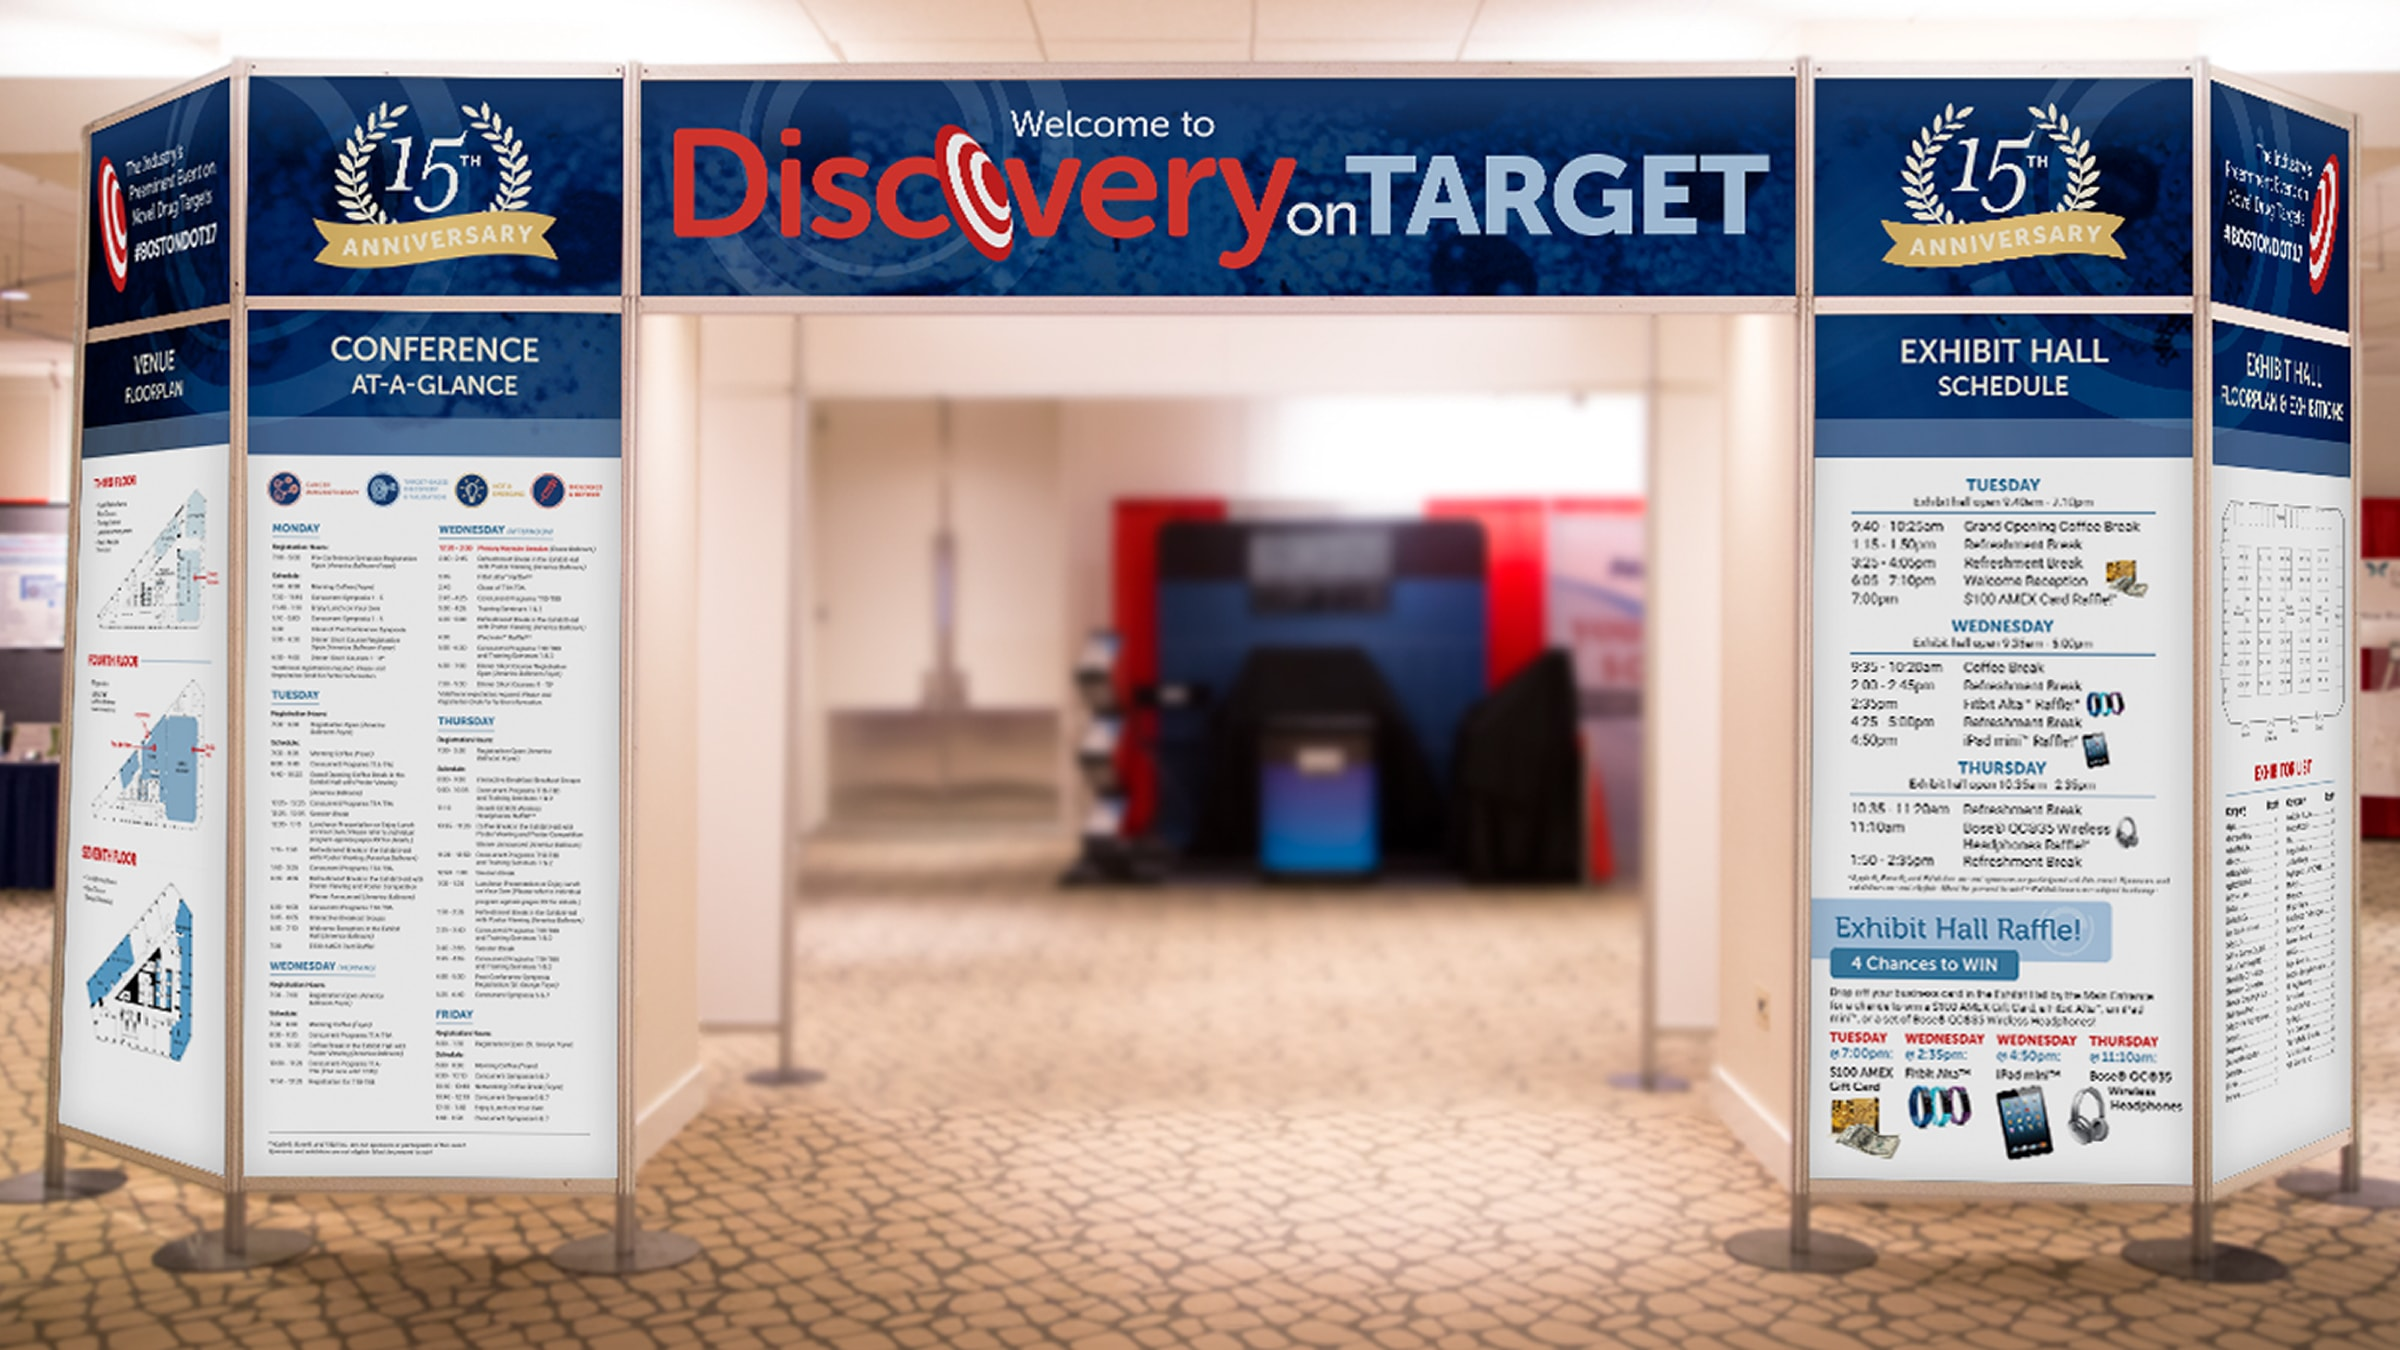
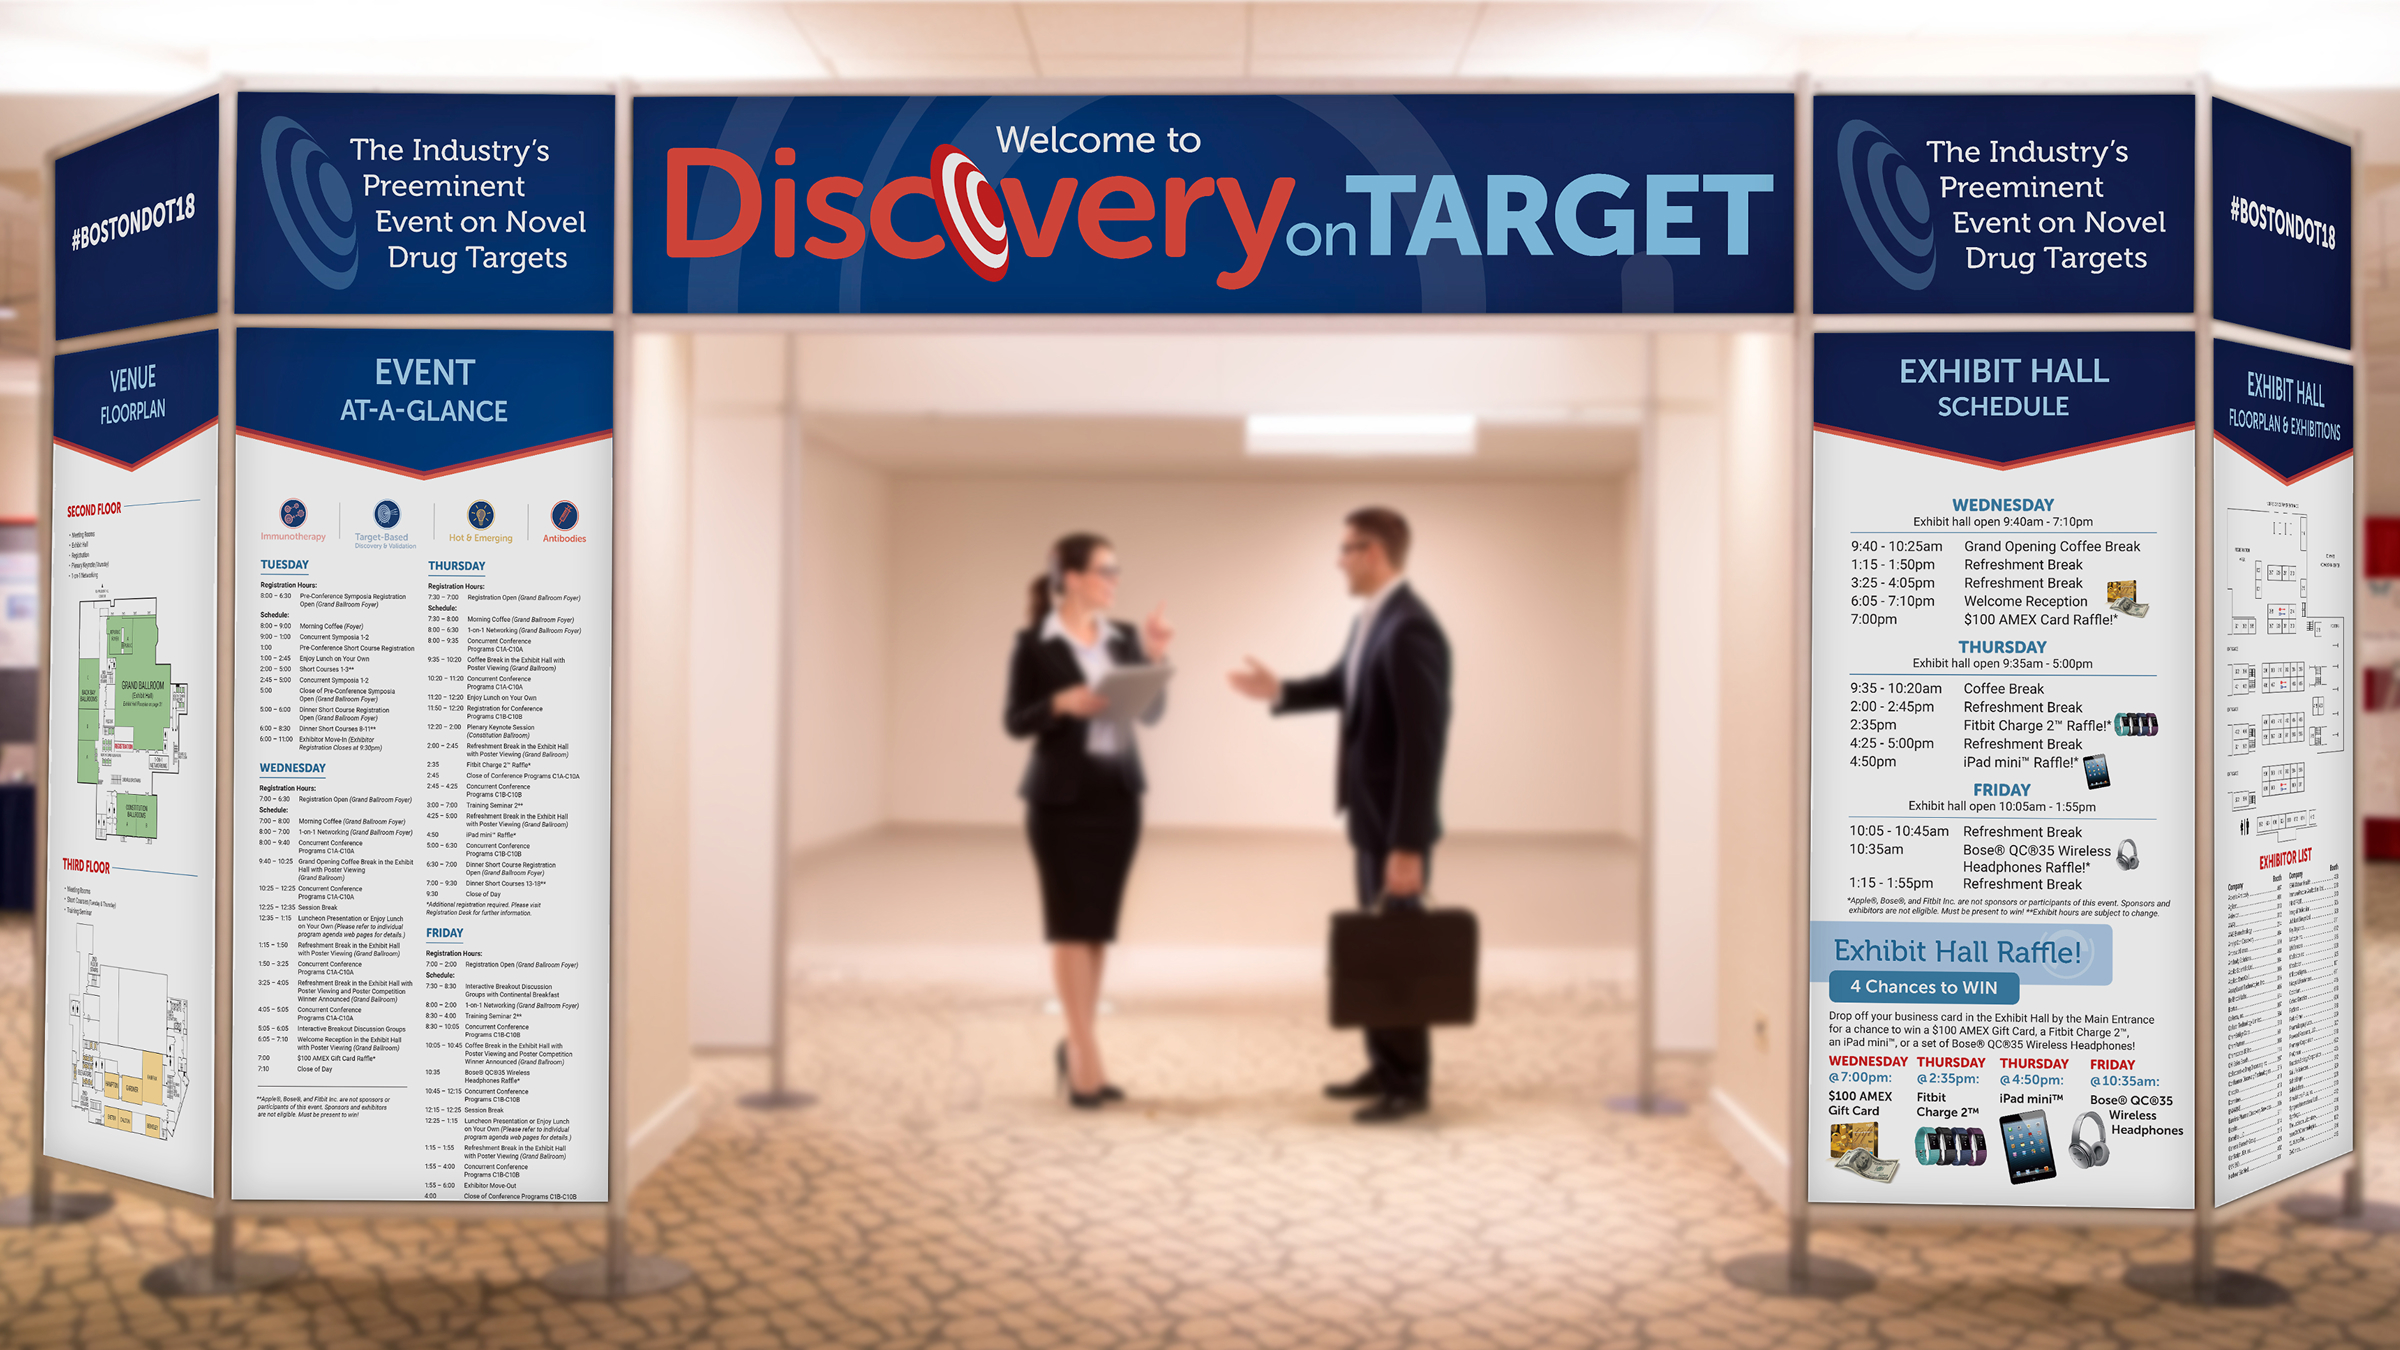
Update layout and archway image.

diff --git a/src/app/projects/cambridge-innovation-institute/page.tsx b/src/app/projects/cambridge-innovation-institute/page.tsx
@@ -26,7 +26,7 @@ if (!project.overviewImages || project.overviewImages.length < 3) {
   throw new Error('Missing overview images for cambridge-innovation-institute');
 }
 
-const [masterTemplates, dataFlow, signage] = project.overviewImages;
+const [overviewHero, dataFlow, designSystemTemplate] = project.overviewImages;
 
 // -- Overview: Role (replace placeholder with final copy) --------------------
 
@@ -392,27 +392,27 @@ export default function CIIPage() {
             <figure className="flex flex-col gap-2">
               <div
                 className={`relative w-full aspect-video overflow-hidden${
-                  masterTemplates.border
+                  overviewHero.border
                     ? ' border border-gray-20'
                     : ''
                 }`}
               >
                 <ProgressiveImage
-                  src={masterTemplates.src}
-                  alt={masterTemplates.alt}
+                  src={overviewHero.src}
+                  alt={overviewHero.alt}
                   fill
                   className="object-cover"
                   sizes="(min-width: 1024px) 1000px, 100vw"
                 />
               </div>
               <figcaption className="font-body text-para-xs text-text-primary text-pretty">
-                {masterTemplates.caption}
+                {overviewHero.caption}
               </figcaption>
             </figure>
 
             {/* Two-up image row */}
             <div className="flex flex-col sm:flex-row gap-6 lg:gap-9">
-              {[dataFlow, signage].map(
+              {[dataFlow, designSystemTemplate].map(
                 ({ src, alt, caption, border }) => (
                   <figure key={caption} className="flex flex-col gap-2 flex-1 min-w-0">
                     <div

diff --git a/src/data/projects.ts b/src/data/projects.ts
@@ -205,10 +205,10 @@ export const projects: readonly Project[] = [{
     },
     overviewImages: [
       {
-        src: '/images/cii-design-system-template.jpg',
-        alt: 'Design system master templates and tokens for conference branding',
+        src: '/images/cii-dot-entryway-arch-3d-render.jpg',
+        alt: '3D render of Discovery on Target entryway arch integrated with venue architecture',
         caption:
-          'Master templates and design tokens establishing unified design system rules across 60+ annual events',
+          '3D render translating cross-channel entryway design into environmental venue architecture',
         border: true,
       },
       {
@@ -219,10 +219,10 @@ export const projects: readonly Project[] = [{
         border: false,
       },
       {
-        src: '/images/cii-dot-entryway-arch-3d-render.jpg',
-        alt: '3D render of Discovery on Target entryway arch integrated with venue architecture',
+        src: '/images/cii-design-system-template.jpg',
+        alt: 'Design system master templates and tokens for conference branding',
         caption:
-          '3D render translating cross-channel entryway design into environmental venue architecture',
+          'Master templates and design tokens establishing unified design system rules across 60+ annual events',
         border: true,
       },
     ],

diff --git a/docs/backlog.md b/docs/backlog.md
@@ -8,7 +8,6 @@ Project TODOs for Isadora to complete. Add items as list entries; Only Isadora w
 
 - Review all optimized images to ensure correct naming, placement, and format.
     - Reorder CII overview images with DOT arch first.
-    - Move micro-staging and color-coding text between DOT and HCA images.
 - Review text for tone of voice and accuracy of content.
 - Retrieve about images from LinkedIn for avatars and logos.
 - Update screenshots of AMNH after next project update. Current screenshots include unwanted bevel shadow applied by Chrome.